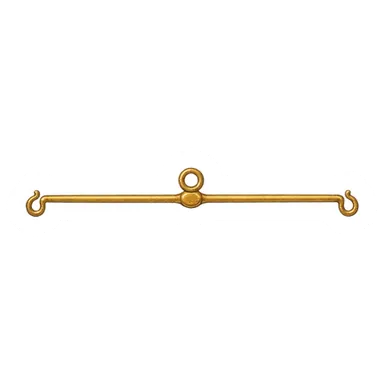
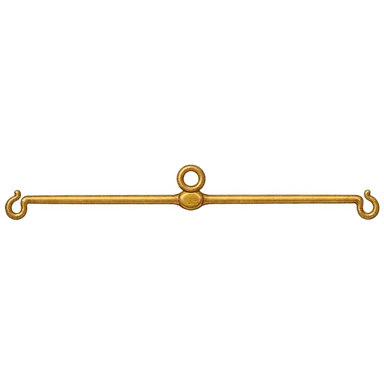
Scale parts without the sticker outline: the beam's white edge ran over the stand

Changed region(s): [[0.0, 0.4062, 1.0, 0.5938]]

diff --git a/tools/objects/make_objects.py b/tools/objects/make_objects.py
@@ -221,6 +221,7 @@ all one connected shape, centred, on a fully TRANSPARENT background with plenty 
 SHEETS["mechaniki"] = {
     "outline": True,
     "names": ["waga_podstawa", "waga_belka", "waga_szalka", "kubeczek", "pizza", "czekolada"],
+    "bez_obwodki": ["waga_podstawa", "waga_belka", "waga_szalka"],    # parts of one thing: an outline of each ran over the next
     "size": "1536x1024",
     "prompt": f"""A sprite sheet of SIX separate illustrated parts for a children's picture book, arranged in a neat
 grid of 2 rows and 3 columns on a fully TRANSPARENT background, with generous empty space between them so none of
@@ -297,7 +298,7 @@ def split(sheet: str, min_pikseli: int = 1500) -> None:
         kw = Image.new("RGBA", (bok, bok), (0, 0, 0, 0))
         kw.paste(kaw, ((bok - kaw.width) // 2, (bok - kaw.height) // 2))
         kw = kw.resize((PX, PX), Image.LANCZOS)
-        if SHEETS[sheet].get("outline"):
+        if SHEETS[sheet].get("outline") and nazwa not in SHEETS[sheet].get("bez_obwodki", []):
             kw = die_cut(kw)
         kw.save(OUT / f"{nazwa}.webp", "WEBP", quality=80, method=6, exact=True)
         print(f"  {nazwa:10s} {kaw.width}x{kaw.height}")
